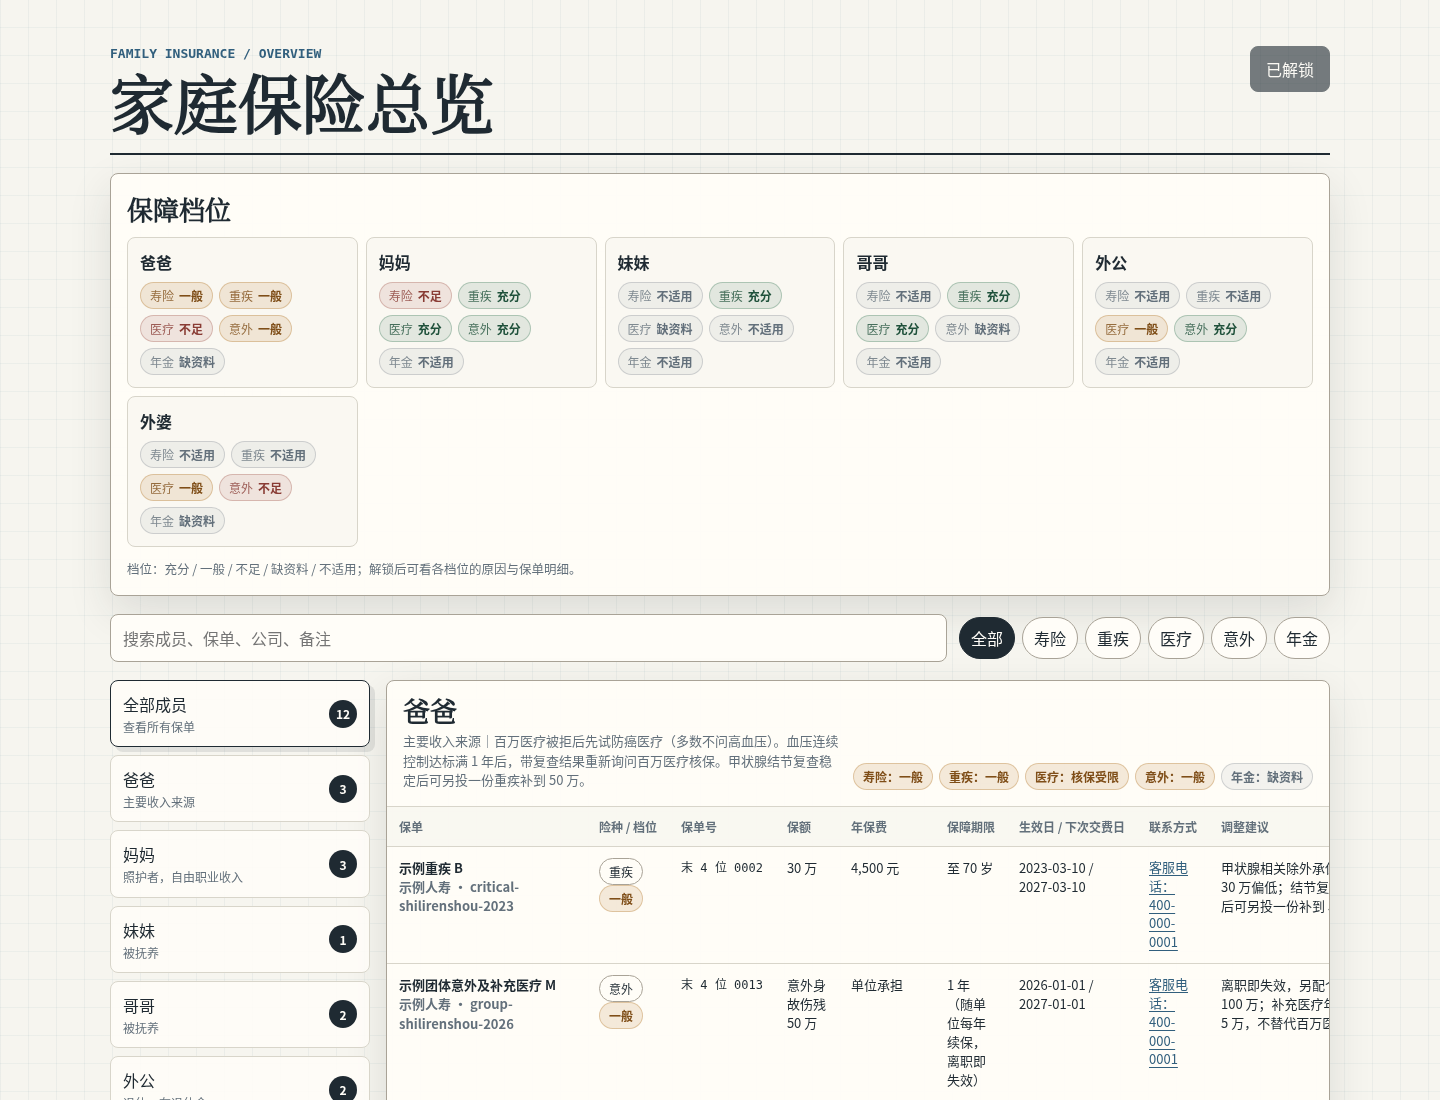
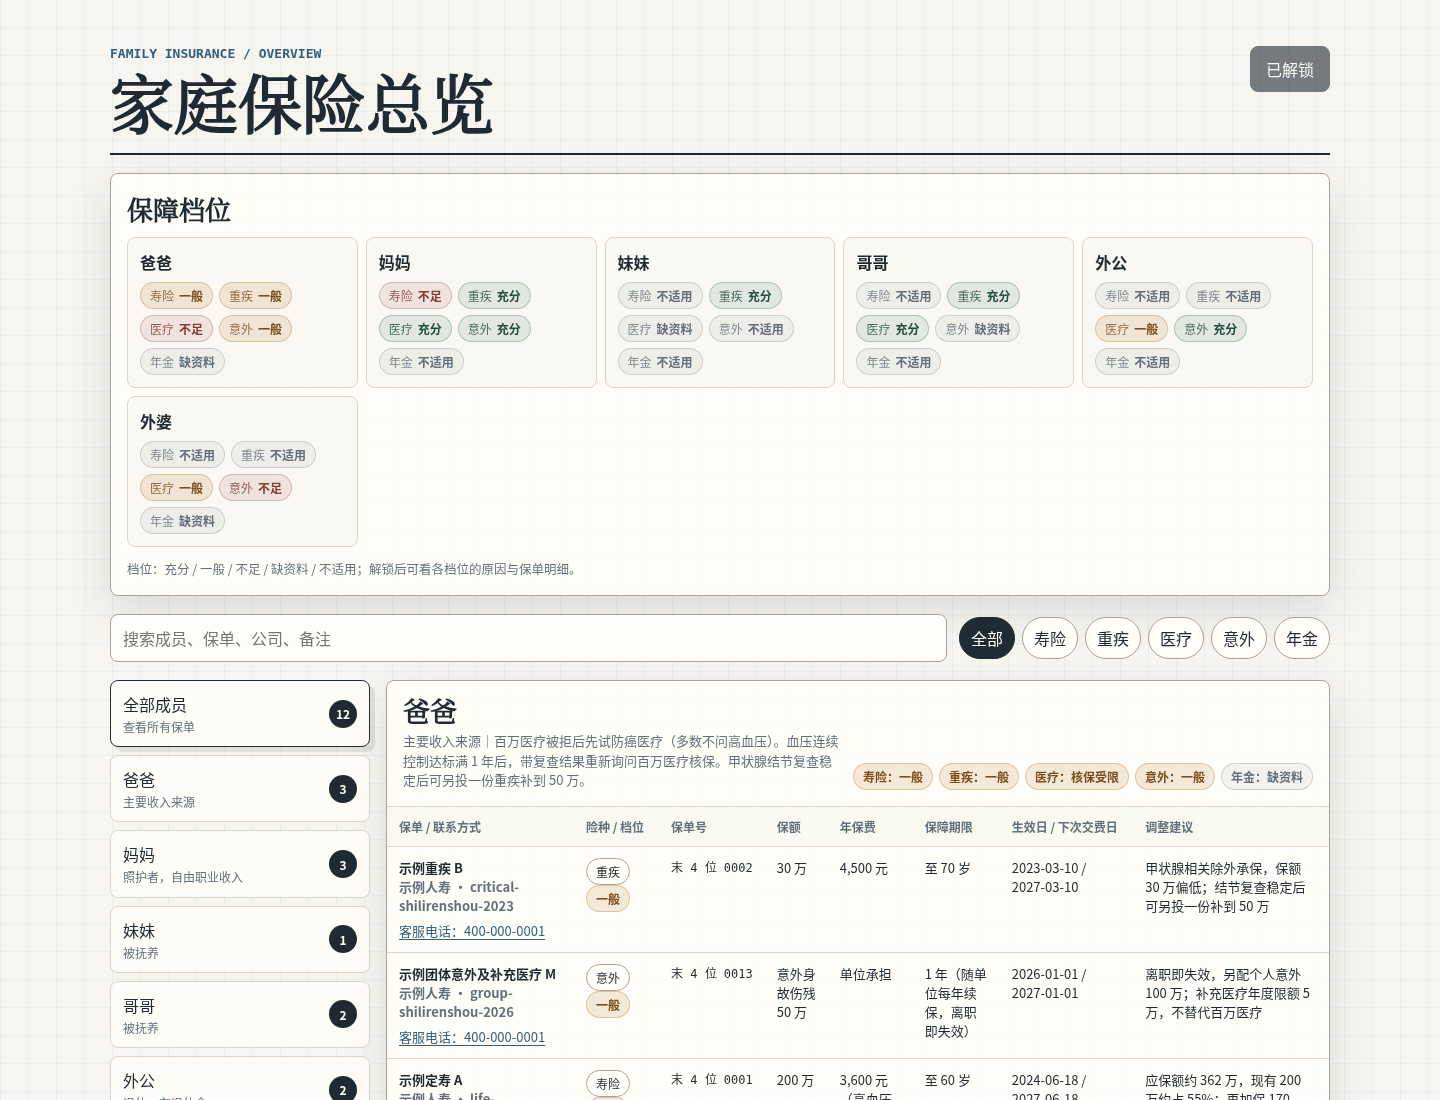
fix: v0.1.1——隐私断言改查注入数据与可见文字，带空格电话拨号修正，明细表收窄免横向滚动

diff --git a/examples/demo-family/site/index.html b/examples/demo-family/site/index.html
@@ -378,11 +378,17 @@
       white-space: nowrap;
     }
 
-    td:first-child { min-width: 200px; font-weight: 700; }
+    td { overflow-wrap: break-word; }
+    td:first-child { min-width: 180px; font-weight: 700; }
     tbody tr:hover { background: rgba(49, 95, 125, .05); }
-    td.amount { min-width: 64px; }
-    td.premium { min-width: 96px; }
-    td.advice { min-width: 180px; }
+    td.amount { min-width: 56px; }
+    td.premium { min-width: 72px; }
+    td.advice { min-width: 160px; }
+
+    .policy-resources {
+      margin-top: 6px;
+      font-weight: 400;
+    }
 
     .policy-id {
       font-family: ui-monospace, SFMono-Regular, Menlo, Consolas, monospace;
@@ -534,16 +540,15 @@
 
   <script>
     const DASHBOARD_OVERVIEW = {"generatedAt":"2026-11-20","members":[{"id":"self","name":"爸爸","coverage":{"寿险":"一般","重疾":"一般","医疗":"不足","意外":"一般","年金":"缺资料"}},{"id":"spouse","name":"妈妈","coverage":{"寿险":"不足","重疾":"充分","医疗":"充分","意外":"充分","年金":"不适用"}},{"id":"daughter","name":"妹妹","coverage":{"寿险":"不适用","重疾":"充分","医疗":"缺资料","意外":"不适用","年金":"不适用"}},{"id":"son","name":"哥哥","coverage":{"寿险":"不适用","重疾":"充分","医疗":"充分","意外":"缺资料","年金":"不适用"}},{"id":"father","name":"外公","coverage":{"寿险":"不适用","重疾":"不适用","医疗":"一般","意外":"充分","年金":"不适用"}},{"id":"mother","name":"外婆","coverage":{"寿险":"不适用","重疾":"不适用","医疗":"一般","意外":"不足","年金":"缺资料"}}]};
[2 lines of base64/hex data omitted]
 
     const PENDING = "待补";
     const KINDS = ["寿险", "重疾", "医疗", "意外", "年金"];
     // 档位配色的唯一来源：总览、明细档位、保单档位都查这张表。
-    // 第三项是「核保」开头那一档，写成 \u 转义：明文页面里不出现这个档位的字面，隐私检查可以直接按字面搜。
     const TIER_CLASS = {
       "充分": "ok",
       "一般": "warn",
-      "\u6838\u4fdd\u53d7\u9650": "warn",
+      "核保受限": "warn",
       "不足": "bad",
       "缺资料": "muted",
       "不适用": "muted"
@@ -641,7 +646,7 @@
 
     function renderPolicyResources(policy) {
       const html = [policy.contacts, policy.links, policy.documents].map(renderLinkList).filter(Boolean).join("");
-      return html || `<span class="member-note">${PENDING}</span>`;
+      return `<div class="policy-resources">${html || `<span class="member-note">联系方式：${PENDING}</span>`}</div>`;
     }
 
     function renderPolicies(member) {
@@ -651,28 +656,26 @@
           <table>
             <thead>
               <tr>
-                <th>保单</th>
+                <th>保单 / 联系方式</th>
                 <th>险种 / 档位</th>
                 <th>保单号</th>
                 <th>保额</th>
                 <th>年保费</th>
                 <th>保障期限</th>
                 <th>生效日 / 下次交费日</th>
-                <th>联系方式</th>
                 <th>调整建议</th>
               </tr>
             </thead>
             <tbody>
               ${member.policies.map((policy) => `
                 <tr>
-                  <td data-label="保单">${escapeHtml(policy.name)}<br><span class="member-note">${escapeHtml(policy.company)} · ${escapeHtml(policy.code)}</span></td>
+                  <td data-label="保单">${escapeHtml(policy.name)}<br><span class="member-note">${escapeHtml(policy.company)} · ${escapeHtml(policy.code)}</span>${renderPolicyResources(policy)}</td>
                   <td data-label="险种 / 档位"><span class="badge plain">${escapeHtml(policy.type)}</span> <span class="badge ${tierClass(policy.status)}">${escapeHtml(policy.status)}</span></td>
                   <td data-label="保单号" class="policy-id">${escapeHtml(policy.policyId)}</td>
                   <td data-label="保额" class="amount">${escapeHtml(policy.sumInsured)}</td>
                   <td data-label="年保费" class="premium">${escapeHtml(policy.premium)}</td>
                   <td data-label="保障期限">${escapeHtml(policy.term)}</td>
                   <td data-label="生效日 / 下次交费日">${escapeHtml(policy.renewal)}</td>
-                  <td data-label="联系方式">${renderPolicyResources(policy)}</td>
                   <td data-label="调整建议" class="advice">${escapeHtml(policy.note)}</td>
                 </tr>
               `).join("")}

diff --git a/dashboard/index.html b/dashboard/index.html
@@ -378,11 +378,17 @@
       white-space: nowrap;
     }
 
-    td:first-child { min-width: 200px; font-weight: 700; }
+    td { overflow-wrap: break-word; }
+    td:first-child { min-width: 180px; font-weight: 700; }
     tbody tr:hover { background: rgba(49, 95, 125, .05); }
-    td.amount { min-width: 64px; }
-    td.premium { min-width: 96px; }
-    td.advice { min-width: 180px; }
+    td.amount { min-width: 56px; }
+    td.premium { min-width: 72px; }
+    td.advice { min-width: 160px; }
+
+    .policy-resources {
+      margin-top: 6px;
+      font-weight: 400;
+    }
 
     .policy-id {
       font-family: ui-monospace, SFMono-Regular, Menlo, Consolas, monospace;
@@ -539,11 +545,10 @@
     const PENDING = "待补";
     const KINDS = ["寿险", "重疾", "医疗", "意外", "年金"];
     // 档位配色的唯一来源：总览、明细档位、保单档位都查这张表。
-    // 第三项是「核保」开头那一档，写成 \u 转义：明文页面里不出现这个档位的字面，隐私检查可以直接按字面搜。
     const TIER_CLASS = {
       "充分": "ok",
       "一般": "warn",
-      "\u6838\u4fdd\u53d7\u9650": "warn",
+      "核保受限": "warn",
       "不足": "bad",
       "缺资料": "muted",
       "不适用": "muted"
@@ -641,7 +646,7 @@
 
     function renderPolicyResources(policy) {
       const html = [policy.contacts, policy.links, policy.documents].map(renderLinkList).filter(Boolean).join("");
-      return html || `<span class="member-note">${PENDING}</span>`;
+      return `<div class="policy-resources">${html || `<span class="member-note">联系方式：${PENDING}</span>`}</div>`;
     }
 
     function renderPolicies(member) {
@@ -651,28 +656,26 @@
           <table>
             <thead>
               <tr>
-                <th>保单</th>
+                <th>保单 / 联系方式</th>
                 <th>险种 / 档位</th>
                 <th>保单号</th>
                 <th>保额</th>
                 <th>年保费</th>
                 <th>保障期限</th>
                 <th>生效日 / 下次交费日</th>
-                <th>联系方式</th>
                 <th>调整建议</th>
               </tr>
             </thead>
             <tbody>
               ${member.policies.map((policy) => `
                 <tr>
-                  <td data-label="保单">${escapeHtml(policy.name)}<br><span class="member-note">${escapeHtml(policy.company)} · ${escapeHtml(policy.code)}</span></td>
+                  <td data-label="保单">${escapeHtml(policy.name)}<br><span class="member-note">${escapeHtml(policy.company)} · ${escapeHtml(policy.code)}</span>${renderPolicyResources(policy)}</td>
                   <td data-label="险种 / 档位"><span class="badge plain">${escapeHtml(policy.type)}</span> <span class="badge ${tierClass(policy.status)}">${escapeHtml(policy.status)}</span></td>
                   <td data-label="保单号" class="policy-id">${escapeHtml(policy.policyId)}</td>
                   <td data-label="保额" class="amount">${escapeHtml(policy.sumInsured)}</td>
                   <td data-label="年保费" class="premium">${escapeHtml(policy.premium)}</td>
                   <td data-label="保障期限">${escapeHtml(policy.term)}</td>
                   <td data-label="生效日 / 下次交费日">${escapeHtml(policy.renewal)}</td>
-                  <td data-label="联系方式">${renderPolicyResources(policy)}</td>
                   <td data-label="调整建议" class="advice">${escapeHtml(policy.note)}</td>
                 </tr>
               `).join("")}

diff --git a/references/15-总览页与加密.md b/references/15-总览页与加密.md
@@ -13,7 +13,7 @@ node scripts/build-dashboard.mjs <库目录>
 脚本做四件事：读 `members/`、`policies/`、`analysis/gap_matrix.md` → 生成明文总览与明细 → 用口令加密明细（PBKDF2-SHA256 21 万次 + AES-256-GCM）并当场解密自检 → 写出 `<库目录>/site/index.html`。库在 Git 仓库里而 `.private/` 没被忽略时，脚本拒绝生成。
 
 - 明文区：成员称呼、五险种档位、生成日期。档位为「核保受限」的格子按「不足」显示——单独一个标记本身就会暴露健康状况；原档位只在加密明细里。
-- 加密明细：每位成员的家庭角色、备注、各险种档位，每份保单的产品名、公司、险种、主险保额、保障期限、年保费、生效日 / 下次交费日、保单号末 4 位、续保建议、客服电话（有多个号码时，点击只拨第一个）。
+- 加密明细：每位成员的家庭角色、备注、各险种档位，每份保单的产品名、公司、险种、主险保额、保障期限、年保费、生效日 / 下次交费日、保单号末 4 位、续保建议、客服电话（号码可含空格、连字符与开头的 +；多个号码用「、」「／」「；」「，」「或」「转」分隔时，点击只拨第一个）。明细表的客服电话显示在产品名下方。
 - 页面由脚本整体生成，不手改；改了台账就重新生成。
 - 页面要放在别的位置时加 `--out <输出文件>`，只接受库目录内、以 `.html` 结尾的相对路径，例如 `--out site/insurance-dashboard/index.html`；`site/index.html` 已是别的页面时用它，避免覆盖。
 

diff --git a/CHANGELOG.md b/CHANGELOG.md
@@ -1,5 +1,11 @@
 # 更新记录
 
+## v0.1.1 — 2026-11-20
+
+- 总览页模板的档位配色表恢复「核保受限」字面键；隐私测试改为分别检查明文总览 JSON、页面可见文字与模板（「核保受限」只作为配色表的键出现一次）。
+- 客服电话的拨号链接支持号码内空格、连字符与开头的 +，拨号时去掉空格与连字符；多个号码用「、」「／」「；」「，」「或」「转」分隔时只拨第一个。
+- 明细表去掉单独的联系方式列，客服电话显示在产品名下方，长文本换行；示例家庭在 1280px 宽度下表格无横向滚动。
+
 ## v0.1.0 — 2026-11-20
 
 - 首个公开版本：SKILL.md 入口（适配 Claude Code、Codex、Trae、Qoder、CodeBuddy、Kimi Code CLI）、18 章方法论（references/）、9 份模板（templates/）。

diff --git a/examples/demo-family/CHANGELOG.md b/examples/demo-family/CHANGELOG.md
@@ -4,3 +4,4 @@
 - 2026-11-20 录入六位成员档案与 12 份保单台账
 - 2026-11-20 完成缺口矩阵与配置建议（recommendations/2026-11-20.md）
 - 2026-11-20 妈妈、外婆备注记已确认无其他保单（members/spouse.md、members/mother.md），重建总览页
+- 2026-11-20 升级到 china-family-insurance 0.1.1，重建总览页

diff --git a/examples/demo-family/AGENTS.md b/examples/demo-family/AGENTS.md
@@ -1,7 +1,7 @@
 # 库规则（本库必须为私有仓库或仅本地保存）
 
 - skill: china-family-insurance
-- version: 0.1.0
+- version: 0.1.1
 
 本库是一个家庭的保险资料库，由 skill `china-family-insurance` 建立和维护。内容是方法与工具产出的整理结果，不是持牌保险建议。
 
